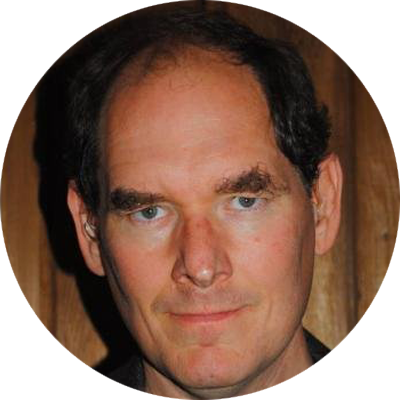
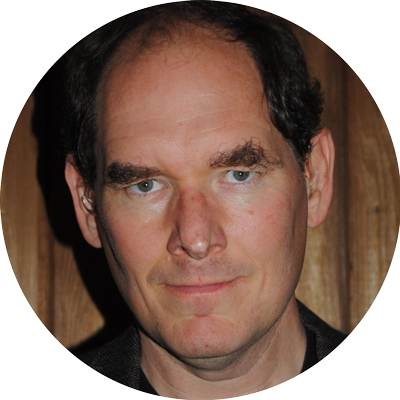
updated README, added more PIF headshot

diff --git a/_sass/_layout.scss b/_sass/_layout.scss
@@ -492,11 +492,7 @@ body{
   background-image:url('/images/2014/jones-timothy-headshot.png');
 }
 .kim-julia{
-  position:absolute;
-  background: rgba(92,92,92,0.25);
-  width:inherit;
-  height:inherit;
-  border-radius:50%;
+  background-image:url('/images/2014/kim-julia-headshot.png');
 }
 .kalafarski-ej{
   background-image:url('/images/2014/kalafarski-ej-headshot.png');
@@ -562,11 +558,7 @@ body{
   background-image:url('/images/2013/felleman-john-headshot.png');
 }
 .frempong-derek{
-  position:absolute;
-  background: rgba(92,92,92,0.25);
-  width:inherit;
-  height:inherit;
-  border-radius:50%;
+  background-image:url('/images/2013/frempong-derek-headshot.png');
 }
 .godbout-greg{
   background-image:url('/images/2013/godbout-greg-headshot.png');
@@ -627,11 +619,7 @@ body{
   background-image:url('/images/2013/polastre-joe-headshot.png');
 }
 .read-robert{
-  position:absolute;
-  background: rgba(92,92,92,0.25);
-  width:inherit;
-  height:inherit;
-  border-radius:50%;
+  background-image:url('/images/2013/read-robert-headshot.png');
 }
 .rhee-sokwoo{
   background-image:url('/images/2013/rhee-sokwoo-headshot.png');

diff --git a/README.md b/README.md
@@ -1,6 +1,6 @@
 # Presidential Innovation Fellows website
 
-This is the PIF website, jekyll edition. The website is currently maintained by the PIF leadership, with contributions from the fellows.
+This is the PIF website, jekyll edition (inspired by the [18F hub](https://github.com/18F/hub)). The website is currently maintained by the PIF leadership, with contributions from the fellows.
 
 In the _data section there are YAML files available for PIF bios, current/previous projects, and case studies. Additionally, there are specific fields for each YAML file and corresponding approved values.
 
